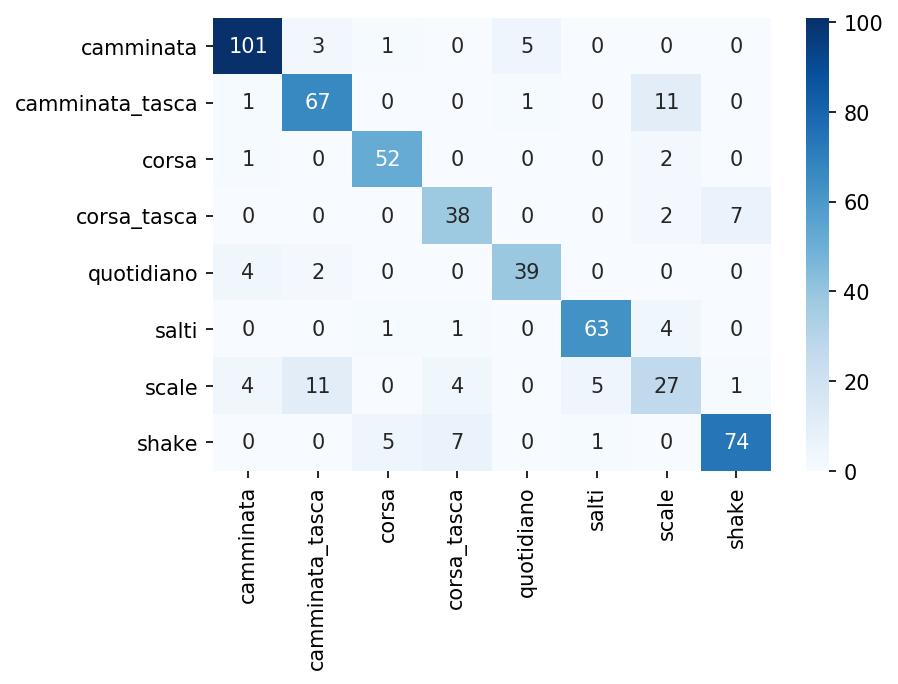
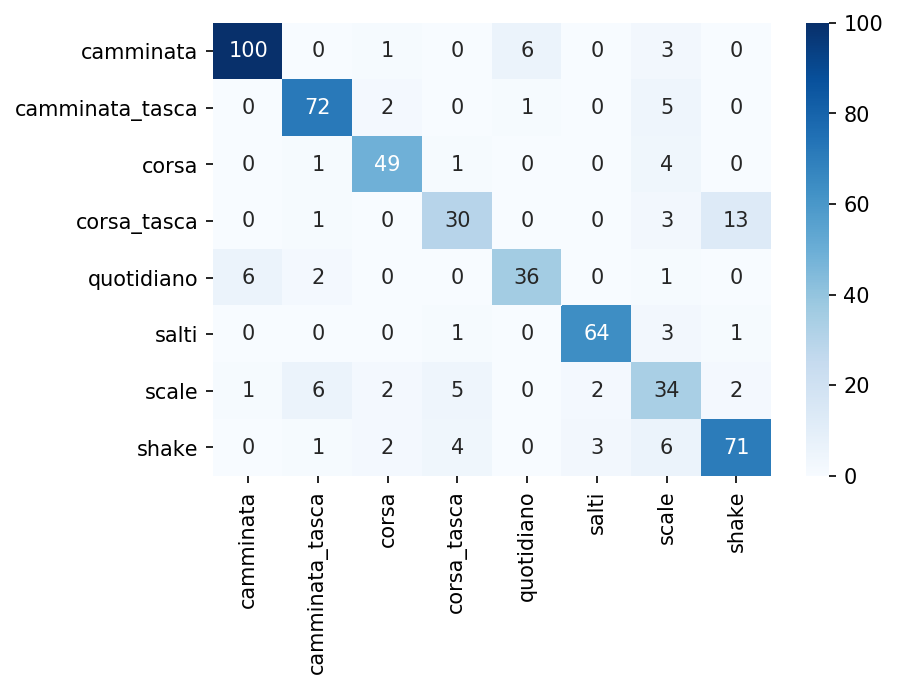
presentazione

diff --git a/presentazione/main.tex b/presentazione/main.tex
@@ -136,15 +136,40 @@ shake & 11.480 & 14.663 & 16.968 &  $\cdots$ & 8.474\\
 \end{column}%
 \hfill%
 \begin{column}{.4\textwidth}
-ciao
+\textbf{qui bisogna riportare i valori delle esplicative su due intervallini di esempio di due diverse attività...}
 \end{column}%
 \end{columns}
 \end{frame}
 
 \begin{frame}{Analisi esplorative}
+\begin{columns}[T] % align columns
+\begin{column}{.33\textwidth}
 \begin{figure}[H]
-\includegraphics[width=\textwidth]{../figure/t-SNE.png}
+\includegraphics[width=\textwidth]{../figure/minA.png}
 \end{figure}
+\begin{figure}[H]
+\includegraphics[width=\textwidth]{../figure/maxA.png}
+\end{figure}
+\end{column}%
+\hfill%
+\begin{column}{.33\textwidth}
+\begin{figure}[H]
+\includegraphics[width=\textwidth]{../figure/medA.png}
+\end{figure}
+\begin{figure}[H]
+\includegraphics[width=\textwidth]{../figure/meanA.png}
+\end{figure}
+\end{column}%
+\hfill%
+\begin{column}{.33\textwidth}
+\begin{figure}[H]
+\includegraphics[width=\textwidth]{../figure/varA.png}
+\end{figure}
+\begin{figure}[H]
+\includegraphics[width=\textwidth]{../figure/MVDeriv.png}
+\end{figure}
+\end{column}%
+\end{columns}
 \end{frame}
 
 \begin{frame}{Analisi esplorative}
@@ -156,15 +181,22 @@ ciao
 \end{figure}
 \end{frame}
 
+\begin{frame}{Analisi esplorative}
+\begin{figure}[H]
+\includegraphics[width=\textwidth]{../figure/t-SNE.png}
+\end{figure}
+\end{frame}
+
 \begin{frame}{I modelli}
 I modelli per la classificazione analizzati sono: 
 \begin{enumerate}
-\item \emph{Linear Discriminant Analysis};
-\item \emph{Quadratic Discriminant Analysis};
-\item Modello Multinomiale;
-\item Albero di Classificazione.
+\item Analisi discriminante lineare
+\item Analisi discriminante quadratica
+\item Modello Multinomiale
+\item Albero di Classificazione
 \end{enumerate}
-Per l'analisi il dataset è stato splittato in training, validation e test. % nomi in italiano non li ricordo ora
+
+Per l'analisi il dataset è stato diviso in stima, convalida e verifica. 
 \end{frame}
 
 \begin{frame}{L'accuratezza dei modelli}
@@ -198,16 +230,44 @@ Per l'analisi il dataset è stato splittato in training, validation e test. % no
 \end{columns}
 \end{frame}
 
-\begin{frame}{I pesi}
-%shake
+\begin{frame}{I modelli e lo shake}
+\textbf{Aggiungere tabella con tasso veri positivi sui modelli non pesati...}
+
+Per il problema in analisi, questi valori non sono sufficienti. 
+
+Come fare?
+\end{frame}
+
+\begin{frame}{Pesi}
+Riducendo il peso della classe {\em shake}, si riduce il tasso di {\em shake} erroneamente classificati.
+
+\textbf{Ma come scegliere i pesi?} \pause Ricerca sequenziale
+\begin{figure}[H]
+\includegraphics[width=0.5\textwidth]{../figure/andamento-pesi.png}
+\end{figure}
+
+\end{frame}
+
+\begin{frame}{Pesi}
+\begin{center}
+È richiesto un tasso di {\em shake} correttamente classificati 
+
+superiore al $98\%$.
+\end{center}
+\begin{figure}[H]
+\includegraphics[width=0.6\textwidth]{../figure/acc-vs-veripos-qda.png}  
+\end{figure}
+
+\textbf{occhio che il crop taglia la leggenda...}
+
 \end{frame}
 
 \begin{frame}{I modelli pesati}
 \input{../relazione/tex/accuracy-table-pen.tex}
 \end{frame}
 
-\begin{frame}{L'insieme di test}
-%shake
+\begin{frame}{Sull'insieme di test}
+
 \end{frame}
 
 \section{Bibliografia}

diff --git a/relazione/tex/accuracy-table-pen.tex b/relazione/tex/accuracy-table-pen.tex
@@ -1,12 +1,12 @@
 \begin{table}[H]
 \centering
-\caption{Accuratezza per i modelli adattati sull'insieme di validazione.}
+\caption{Accuratezza per i modelli adattati sull'insieme di convalida.}
 \begin{tabular}{cc}
 \toprule
       Modello &  Accuratezza \% \\
 \midrule
           QDA &          82.20 \\
- Multinomiale &          82.02 \\
+ Multinomiale &          80.73 \\
           LDA &          68.62 \\
 \bottomrule
 \end{tabular}

diff --git a/relazione/tex/accuracy-table.tex b/relazione/tex/accuracy-table.tex
@@ -1,6 +1,6 @@
 \begin{table}[H]
 \centering
-\caption{Accuratezza per i modelli adattati sull'insieme di validazione.}
+\caption{Accuratezza per i modelli adattati sull'insieme di convalida.}
 \begin{tabular}{cc}
 \toprule
                         Modello &  Accuratezza \% \\
